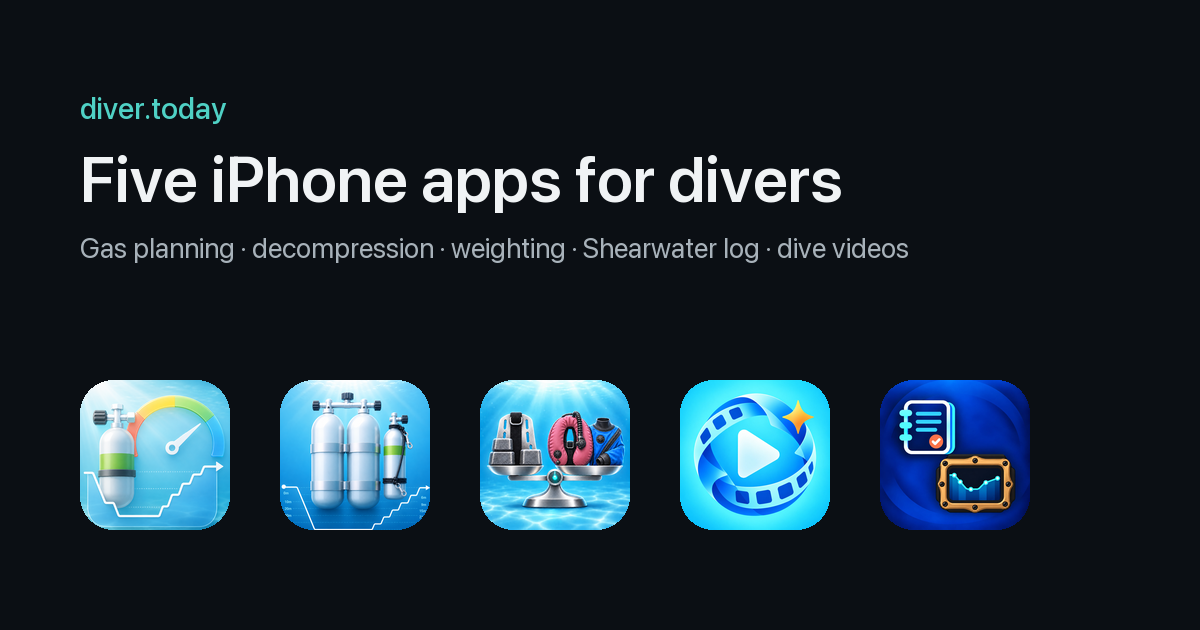
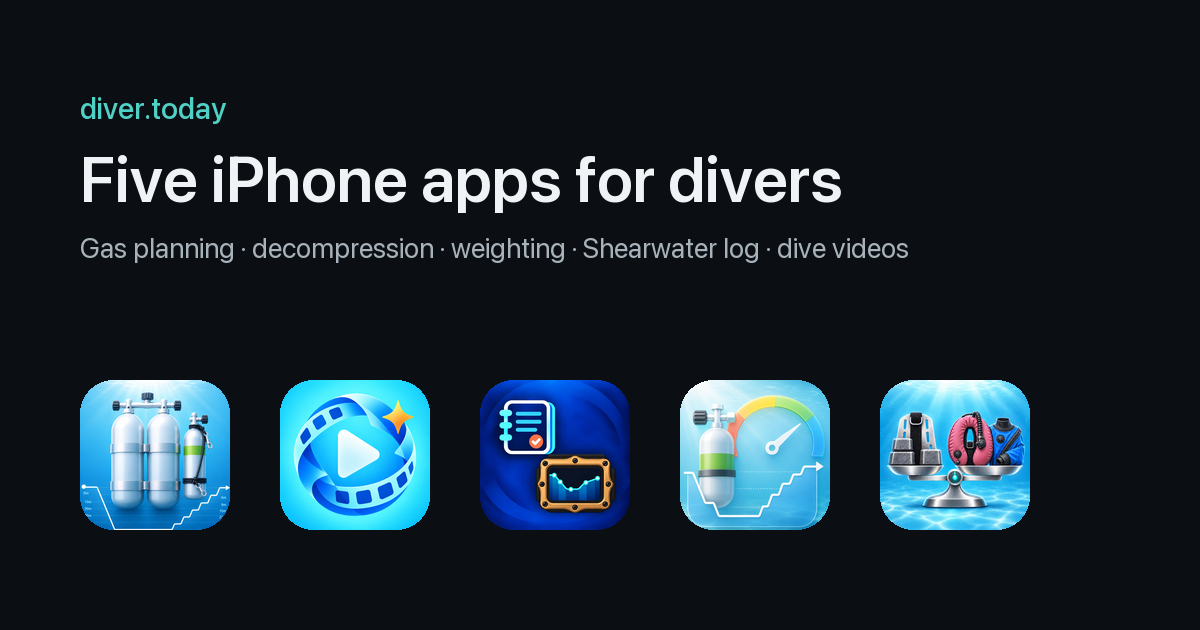
Order the apps: Time to Surface, Surface Interval, Dive log, Turn Pressure, Weights Check
Same order in the page sections, header menu, hero icons, JSON-LD list,
the generator's APPS table and the share image. Project notes updated.

Changed region(s): [[0.555, 0.6032, 0.8633, 0.8444], [0.0617, 0.6032, 0.37, 0.8444], [0.4008, 0.6032, 0.5242, 0.8444]]

diff --git a/index.html b/index.html
@@ -40,11 +40,11 @@
       "@type": "ItemList",
       "name": "Dive apps by Rustam Ismailov",
       "itemListElement": [
-        { "@type": "ListItem", "position": 1, "item": { "@type": "SoftwareApplication", "name": "Turn Pressure – Dive Planner", "operatingSystem": "iOS", "applicationCategory": "SportsApplication", "url": "https://apps.apple.com/app/id6801749776", "image": "https://diver.today/img/turn-pressure.png", "description": "Recreational dive planner: turn pressure, minimum gas and bottom time for the dive you're actually doing.", "offers": { "@type": "Offer", "price": "0", "priceCurrency": "USD" }, "author": { "@type": "Person", "name": "Rustam Ismailov" } } },
-        { "@type": "ListItem", "position": 2, "item": { "@type": "SoftwareApplication", "name": "Time to Surface – Deco Planner", "operatingSystem": "iOS", "applicationCategory": "SportsApplication", "url": "https://apps.apple.com/app/id6803187271", "image": "https://diver.today/img/time-to-surface.png", "description": "Technical dive and gas planner for up to 56 meters deep: six bottom gases, one deco bottle, repetitive dives.", "offers": { "@type": "Offer", "price": "0", "priceCurrency": "USD" }, "author": { "@type": "Person", "name": "Rustam Ismailov" } } },
-        { "@type": "ListItem", "position": 3, "item": { "@type": "SoftwareApplication", "name": "Weights Check – Dive Weighting", "operatingSystem": "iOS", "applicationCategory": "SportsApplication", "url": "https://apps.apple.com/app/id6806640499", "image": "https://diver.today/img/weights-check.png", "description": "A library of your scuba weighting, per rig and per water, with the balance drawn and your own in-water checks recorded.", "offers": { "@type": "Offer", "price": "0", "priceCurrency": "USD" }, "author": { "@type": "Person", "name": "Rustam Ismailov" } } },
-        { "@type": "ListItem", "position": 4, "item": { "@type": "SoftwareApplication", "name": "Surface Interval – Dive Videos", "operatingSystem": "iOS, macOS", "applicationCategory": "MultimediaApplication", "url": "https://apps.apple.com/app/id6813333816", "image": "https://diver.today/img/surface-interval.png", "description": "Underwater video colour restored and a dive cut down to one reel with music, on the phone.", "offers": { "@type": "Offer", "price": "0", "priceCurrency": "USD" }, "author": { "@type": "Person", "name": "Rustam Ismailov" } } },
-        { "@type": "ListItem", "position": 5, "item": { "@type": "SoftwareApplication", "name": "Dive log – Computer Logbook", "operatingSystem": "iOS", "applicationCategory": "SportsApplication", "url": "https://apps.apple.com/app/id6822452235", "image": "https://diver.today/img/dive-log.png", "description": "Every dive from your Shearwater computer, imported over Bluetooth and drawn in full.", "offers": { "@type": "Offer", "price": "0", "priceCurrency": "USD" }, "author": { "@type": "Person", "name": "Rustam Ismailov" } } }
+        { "@type": "ListItem", "position": 1, "item": { "@type": "SoftwareApplication", "name": "Time to Surface – Deco Planner", "operatingSystem": "iOS", "applicationCategory": "SportsApplication", "url": "https://apps.apple.com/app/id6803187271", "image": "https://diver.today/img/time-to-surface.png", "description": "Technical dive and gas planner for up to 56 meters deep: six bottom gases, one deco bottle, repetitive dives.", "offers": { "@type": "Offer", "price": "0", "priceCurrency": "USD" }, "author": { "@type": "Person", "name": "Rustam Ismailov" } } },
+        { "@type": "ListItem", "position": 2, "item": { "@type": "SoftwareApplication", "name": "Surface Interval – Dive Videos", "operatingSystem": "iOS, macOS", "applicationCategory": "MultimediaApplication", "url": "https://apps.apple.com/app/id6813333816", "image": "https://diver.today/img/surface-interval.png", "description": "Underwater video colour restored and a dive cut down to one reel with music, on the phone.", "offers": { "@type": "Offer", "price": "0", "priceCurrency": "USD" }, "author": { "@type": "Person", "name": "Rustam Ismailov" } } },
+        { "@type": "ListItem", "position": 3, "item": { "@type": "SoftwareApplication", "name": "Dive log – Computer Logbook", "operatingSystem": "iOS", "applicationCategory": "SportsApplication", "url": "https://apps.apple.com/app/id6822452235", "image": "https://diver.today/img/dive-log.png", "description": "Every dive from your Shearwater computer, imported over Bluetooth and drawn in full.", "offers": { "@type": "Offer", "price": "0", "priceCurrency": "USD" }, "author": { "@type": "Person", "name": "Rustam Ismailov" } } },
+        { "@type": "ListItem", "position": 4, "item": { "@type": "SoftwareApplication", "name": "Turn Pressure – Dive Planner", "operatingSystem": "iOS", "applicationCategory": "SportsApplication", "url": "https://apps.apple.com/app/id6801749776", "image": "https://diver.today/img/turn-pressure.png", "description": "Recreational dive planner: turn pressure, minimum gas and bottom time for the dive you're actually doing.", "offers": { "@type": "Offer", "price": "0", "priceCurrency": "USD" }, "author": { "@type": "Person", "name": "Rustam Ismailov" } } },
+        { "@type": "ListItem", "position": 5, "item": { "@type": "SoftwareApplication", "name": "Weights Check – Dive Weighting", "operatingSystem": "iOS", "applicationCategory": "SportsApplication", "url": "https://apps.apple.com/app/id6806640499", "image": "https://diver.today/img/weights-check.png", "description": "A library of your scuba weighting, per rig and per water, with the balance drawn and your own in-water checks recorded.", "offers": { "@type": "Offer", "price": "0", "priceCurrency": "USD" }, "author": { "@type": "Person", "name": "Rustam Ismailov" } } }
       ]
     }
   ]
@@ -57,11 +57,11 @@
   <div class="wrap">
     <a class="brand" href="./">diver<b>.</b>today</a>
     <nav aria-label="Apps">
-      <a href="#turn-pressure">Turn Pressure</a>
       <a href="#time-to-surface">Time to Surface</a>
-      <a href="#weights-check">Weights Check</a>
       <a href="#surface-interval">Surface Interval</a>
       <a href="#dive-log">Dive log</a>
+      <a href="#turn-pressure">Turn Pressure</a>
+      <a href="#weights-check">Weights Check</a>
     </nav>
   </div>
 </header>
@@ -73,36 +73,12 @@
     <h1>Five iPhone apps for divers.</h1>
     <p>Gas planning, decompression, weighting, your Shearwater's log and your dive videos. Built by a diver. No accounts, no ads, no tracking.</p>
     <ul class="icons">
-      <li><a href="#turn-pressure" title="Turn Pressure"><img src="img/turn-pressure.png" alt="Turn Pressure" width="64" height="64"></a></li>
       <li><a href="#time-to-surface" title="Time to Surface"><img src="img/time-to-surface.png" alt="Time to Surface" width="64" height="64"></a></li>
-      <li><a href="#weights-check" title="Weights Check"><img src="img/weights-check.png" alt="Weights Check" width="64" height="64"></a></li>
       <li><a href="#surface-interval" title="Surface Interval"><img src="img/surface-interval.png" alt="Surface Interval" width="64" height="64"></a></li>
       <li><a href="#dive-log" title="Dive log"><img src="img/dive-log.png" alt="Dive log" width="64" height="64"></a></li>
+      <li><a href="#turn-pressure" title="Turn Pressure"><img src="img/turn-pressure.png" alt="Turn Pressure" width="64" height="64"></a></li>
+      <li><a href="#weights-check" title="Weights Check"><img src="img/weights-check.png" alt="Weights Check" width="64" height="64"></a></li>
     </ul>
-  </div>
-</section>
-
-<section class="app" id="turn-pressure">
-  <div class="stage" data-video="turn-pressure">
-    <picture>
-      <source media="(max-width: 760px)" srcset="img/turn-pressure-tall-poster.jpg">
-      <img src="img/turn-pressure-wide-poster.jpg" alt="" width="1600" height="900" loading="lazy">
-    </picture>
-    <video muted playsinline loop preload="none" aria-label="Turn Pressure in action"></video>
-    <button class="play" type="button" aria-label="Play the Turn Pressure video"><svg viewBox="0 0 24 24" fill="currentColor"><path d="M6 4l14 8-14 8z"/></svg></button>
-  </div>
-  <div class="wrap meta">
-    <div class="title">
-      <img src="img/turn-pressure.png" alt="" width="72" height="72">
-      <div><h2>Turn Pressure</h2><p>Scuba gas &amp; no-deco calculator</p></div>
-    </div>
-    <div>
-      <p class="blurb">Recreational dive planner: turn pressure, minimum gas and bottom time for the dive you're actually doing — not a flat 50&nbsp;bar. Your own SAC rate, repeat dives, a dive log. Free, offline, no account.</p>
-      <div class="actions">
-        <a class="store" href="https://apps.apple.com/app/id6801749776">Download on the App Store</a>
-        <a class="more" href="https://ligrimp-lang.github.io/turnpressure-site/">Details, support &amp; privacy</a>
-      </div>
-    </div>
   </div>
 </section>
 
@@ -125,30 +101,6 @@
       <div class="actions">
         <a class="store" href="https://apps.apple.com/app/id6803187271">Download on the App Store</a>
         <a class="more" href="https://ligrimp-lang.github.io/timetosurface-site/">Details, support &amp; privacy</a>
-      </div>
-    </div>
-  </div>
-</section>
-
-<section class="app" id="weights-check">
-  <div class="stage" data-video="weights-check">
-    <picture>
-      <source media="(max-width: 760px)" srcset="img/weights-check-tall-poster.jpg">
-      <img src="img/weights-check-wide-poster.jpg" alt="" width="1600" height="900" loading="lazy">
-    </picture>
-    <video muted playsinline loop preload="none" aria-label="Weights Check in action"></video>
-    <button class="play" type="button" aria-label="Play the Weights Check video"><svg viewBox="0 0 24 24" fill="currentColor"><path d="M6 4l14 8-14 8z"/></svg></button>
-  </div>
-  <div class="wrap meta">
-    <div class="title">
-      <img src="img/weights-check.png" alt="" width="72" height="72">
-      <div><h2>Weights Check</h2><p>Scuba buoyancy calculator</p></div>
-    </div>
-    <div>
-      <p class="blurb">Your rig, your lead, your water — a library instead of memory. The balance drawn at depth, estimates until you record a weight check, then your own numbers. Free, offline, no account.</p>
-      <div class="actions">
-        <a class="store" href="https://apps.apple.com/app/id6806640499">Download on the App Store</a>
-        <a class="more" href="https://ligrimp-lang.github.io/weightscheck-site/">Details, support &amp; privacy</a>
       </div>
     </div>
   </div>
@@ -199,6 +151,54 @@
         <a class="more" href="https://ligrimp-lang.github.io/divelog-site/">Details, support &amp; privacy</a>
       </div>
       <p class="note">In App Review. The link works the day Apple approves it.</p>
+    </div>
+  </div>
+</section>
+
+<section class="app" id="turn-pressure">
+  <div class="stage" data-video="turn-pressure">
+    <picture>
+      <source media="(max-width: 760px)" srcset="img/turn-pressure-tall-poster.jpg">
+      <img src="img/turn-pressure-wide-poster.jpg" alt="" width="1600" height="900" loading="lazy">
+    </picture>
+    <video muted playsinline loop preload="none" aria-label="Turn Pressure in action"></video>
+    <button class="play" type="button" aria-label="Play the Turn Pressure video"><svg viewBox="0 0 24 24" fill="currentColor"><path d="M6 4l14 8-14 8z"/></svg></button>
+  </div>
+  <div class="wrap meta">
+    <div class="title">
+      <img src="img/turn-pressure.png" alt="" width="72" height="72">
+      <div><h2>Turn Pressure</h2><p>Scuba gas &amp; no-deco calculator</p></div>
+    </div>
+    <div>
+      <p class="blurb">Recreational dive planner: turn pressure, minimum gas and bottom time for the dive you're actually doing — not a flat 50&nbsp;bar. Your own SAC rate, repeat dives, a dive log. Free, offline, no account.</p>
+      <div class="actions">
+        <a class="store" href="https://apps.apple.com/app/id6801749776">Download on the App Store</a>
+        <a class="more" href="https://ligrimp-lang.github.io/turnpressure-site/">Details, support &amp; privacy</a>
+      </div>
+    </div>
+  </div>
+</section>
+
+<section class="app" id="weights-check">
+  <div class="stage" data-video="weights-check">
+    <picture>
+      <source media="(max-width: 760px)" srcset="img/weights-check-tall-poster.jpg">
+      <img src="img/weights-check-wide-poster.jpg" alt="" width="1600" height="900" loading="lazy">
+    </picture>
+    <video muted playsinline loop preload="none" aria-label="Weights Check in action"></video>
+    <button class="play" type="button" aria-label="Play the Weights Check video"><svg viewBox="0 0 24 24" fill="currentColor"><path d="M6 4l14 8-14 8z"/></svg></button>
+  </div>
+  <div class="wrap meta">
+    <div class="title">
+      <img src="img/weights-check.png" alt="" width="72" height="72">
+      <div><h2>Weights Check</h2><p>Scuba buoyancy calculator</p></div>
+    </div>
+    <div>
+      <p class="blurb">Your rig, your lead, your water — a library instead of memory. The balance drawn at depth, estimates until you record a weight check, then your own numbers. Free, offline, no account.</p>
+      <div class="actions">
+        <a class="store" href="https://apps.apple.com/app/id6806640499">Download on the App Store</a>
+        <a class="more" href="https://ligrimp-lang.github.io/weightscheck-site/">Details, support &amp; privacy</a>
+      </div>
     </div>
   </div>
 </section>

diff --git a/tools/build-media.py b/tools/build-media.py
@@ -36,17 +36,6 @@ INK = (240, 243, 245)
 DIM = (168, 178, 186)
 
 APPS = [
-    dict(slug="turn-pressure", name="Turn Pressure", tagline="Recreational dive planner for iPhone",
-         icon=f"{PROJECTS}/turn_pressure/App/Resources/Assets.xcassets/AppIcon.appiconset/icon-1024.png",
-         shots=f"{PROJECTS}/turn_pressure/design/screenshots/turn-pressure",
-         scenes=[
-            ("1-inputs", "The dive", "Depth, gas and cylinder", "Depth and your minutes at it on sliders — no keyboard on a rocking boat."),
-            ("2-plan-ndl", "Turn pressure", "Turn pressure, before you kit up", "The number a flat 50 bar cannot give you."),
-            ("5-plan-two-level", "Minimum gas", "Minimum gas for each level", "What to leave 30 m with, what to leave 18 m with, and from 9 m up."),
-            ("6-sac-from-dive", "Your SAC", "Your breathing rate, out of a dive you did", "Depths, minutes and two gauge readings — it works the rest out."),
-            ("7-profile", "The profile", "The dive you chose, drawn", "Each level with its minutes and the gauge you leave it on."),
-            ("8-repetitive", "Repeat dives", "It asks what you already dived", "Because a long shallow dive is what carries nitrogen into the next one."),
-         ]),
     dict(slug="time-to-surface", name="Time to Surface", tagline="Decompression planner for technical divers",
          icon=f"{PROJECTS}/turn_pressure/Apps/TimeToSurface/Resources/Assets.xcassets/AppIcon.appiconset/icon-1024.png",
          shots=f"{PROJECTS}/turn_pressure/design/screenshots/time-to-surface",
@@ -57,17 +46,6 @@ APPS = [
             ("5-wetnote", "Wetnote", "The page you copy onto your wetnote", "Schedule, gauge checkpoints and on-the-fly adjustments, sized to write by hand."),
             ("6-profile", "The profile", "The dive you planned, drawn", "Descent, bottom, every stop and the slow last six metres."),
             ("8-repetitive", "Repeat dives", "The dives you already did today", "Up to three, each re-solved in full — every stop, both gases, off-gassed across the interval."),
-         ]),
-    dict(slug="weights-check", name="Weights Check", tagline="Your rig, your lead, your water",
-         icon=f"{PROJECTS}/weights_check/App/Assets.xcassets/AppIcon.appiconset/icon-1024.png",
-         shots=f"{PROJECTS}/weights_check/design/screenshots/weights-check",
-         scenes=[
-            ("1-balance", "Balance", "Your rig at depth, drawn", "The load to carry if the wing fails, and what is left to hold the stop."),
-            ("2-library", "Library", "Every rig you dive, kept", "The one you have checked leads; the ones you are still planning sit under it."),
-            ("3-check", "The check", "Record the check you actually did", "What you wore, the water it happened in, and the lead that came out of it."),
-            ("4-starting-weight", "First dive", "A rig you have never checked", "A range of lead to bring, narrowed by the first check you record."),
-            ("5-gear", "Gear", "Enter your gear once", "Cylinders, suits, regulators, wings and stages, reused by every rig you build."),
-            ("6-suit", "Suit", "Style, size, layers", "The suit's own estimate to start from, until your own check replaces it."),
          ]),
     dict(slug="surface-interval", name="Surface Interval", tagline="Dive video colour and reels, on iPhone and Mac",
          icon=f"{PROJECTS}/surface_interval/App/Resources/Assets.xcassets/AppIcon.appiconset/icon-1024.png",
@@ -89,6 +67,28 @@ APPS = [
             ("4-sites", "Sites", "9,000 dive sites, nearest first", ""),
             ("5-map", "The map", "Every site you dived, on one map", ""),
             ("6-card", "The card", "A card of your dive, for social media", ""),
+         ]),
+    dict(slug="turn-pressure", name="Turn Pressure", tagline="Recreational dive planner for iPhone",
+         icon=f"{PROJECTS}/turn_pressure/App/Resources/Assets.xcassets/AppIcon.appiconset/icon-1024.png",
+         shots=f"{PROJECTS}/turn_pressure/design/screenshots/turn-pressure",
+         scenes=[
+            ("1-inputs", "The dive", "Depth, gas and cylinder", "Depth and your minutes at it on sliders — no keyboard on a rocking boat."),
+            ("2-plan-ndl", "Turn pressure", "Turn pressure, before you kit up", "The number a flat 50 bar cannot give you."),
+            ("5-plan-two-level", "Minimum gas", "Minimum gas for each level", "What to leave 30 m with, what to leave 18 m with, and from 9 m up."),
+            ("6-sac-from-dive", "Your SAC", "Your breathing rate, out of a dive you did", "Depths, minutes and two gauge readings — it works the rest out."),
+            ("7-profile", "The profile", "The dive you chose, drawn", "Each level with its minutes and the gauge you leave it on."),
+            ("8-repetitive", "Repeat dives", "It asks what you already dived", "Because a long shallow dive is what carries nitrogen into the next one."),
+         ]),
+    dict(slug="weights-check", name="Weights Check", tagline="Your rig, your lead, your water",
+         icon=f"{PROJECTS}/weights_check/App/Assets.xcassets/AppIcon.appiconset/icon-1024.png",
+         shots=f"{PROJECTS}/weights_check/design/screenshots/weights-check",
+         scenes=[
+            ("1-balance", "Balance", "Your rig at depth, drawn", "The load to carry if the wing fails, and what is left to hold the stop."),
+            ("2-library", "Library", "Every rig you dive, kept", "The one you have checked leads; the ones you are still planning sit under it."),
+            ("3-check", "The check", "Record the check you actually did", "What you wore, the water it happened in, and the lead that came out of it."),
+            ("4-starting-weight", "First dive", "A rig you have never checked", "A range of lead to bring, narrowed by the first check you record."),
+            ("5-gear", "Gear", "Enter your gear once", "Cylinders, suits, regulators, wings and stages, reused by every rig you build."),
+            ("6-suit", "Suit", "Style, size, layers", "The suit's own estimate to start from, until your own check replaces it."),
          ]),
 ]
 

diff --git a/CLAUDE.md b/CLAUDE.md
@@ -21,16 +21,20 @@ and search. **This file is the present tense; read it before changing anything.*
 
 ## The apps on the page
 
+Rustam chose this order on 2026-10-14 and it is the order on the page, in the header menu, in the
+JSON-LD list, in the `APPS` table of the generator and in the share image: Time to Surface, Surface
+Interval, Dive log, Turn Pressure, Weights Check. Change all of them together.
+
 The App Store ids, store names and the per-app sites (each app's own repo publishes its landing,
 privacy and support pages, which this page links to as "Details, support & privacy"):
 
 | App | Store name | id | Per-app site |
 |---|---|---|---|
-| Turn Pressure | Turn Pressure – Dive Planner | 6801749776 | ligrimp-lang.github.io/turnpressure-site/ |
 | Time to Surface | Time to Surface – Deco Planner | 6803187271 | ligrimp-lang.github.io/timetosurface-site/ |
-| Weights Check | Weights Check – Dive Weighting | 6806640499 | ligrimp-lang.github.io/weightscheck-site/ |
 | Surface Interval | Surface Interval – Dive Videos (iPhone and Mac, one record) | 6813333816 | ligrimp-lang.github.io/surfaceinterval-site/ |
 | Dive log | Dive log – Computer Logbook | 6822452235 | ligrimp-lang.github.io/divelog-site/ |
+| Turn Pressure | Turn Pressure – Dive Planner | 6801749776 | ligrimp-lang.github.io/turnpressure-site/ |
+| Weights Check | Weights Check – Dive Weighting | 6806640499 | ligrimp-lang.github.io/weightscheck-site/ |
 
 Verify a listing with `curl "https://itunes.apple.com/lookup?id=<id>"` rather than from memory.
 **Dive log went into App Review on 2026-10-14**; the page shows its button as "Coming soon on the
